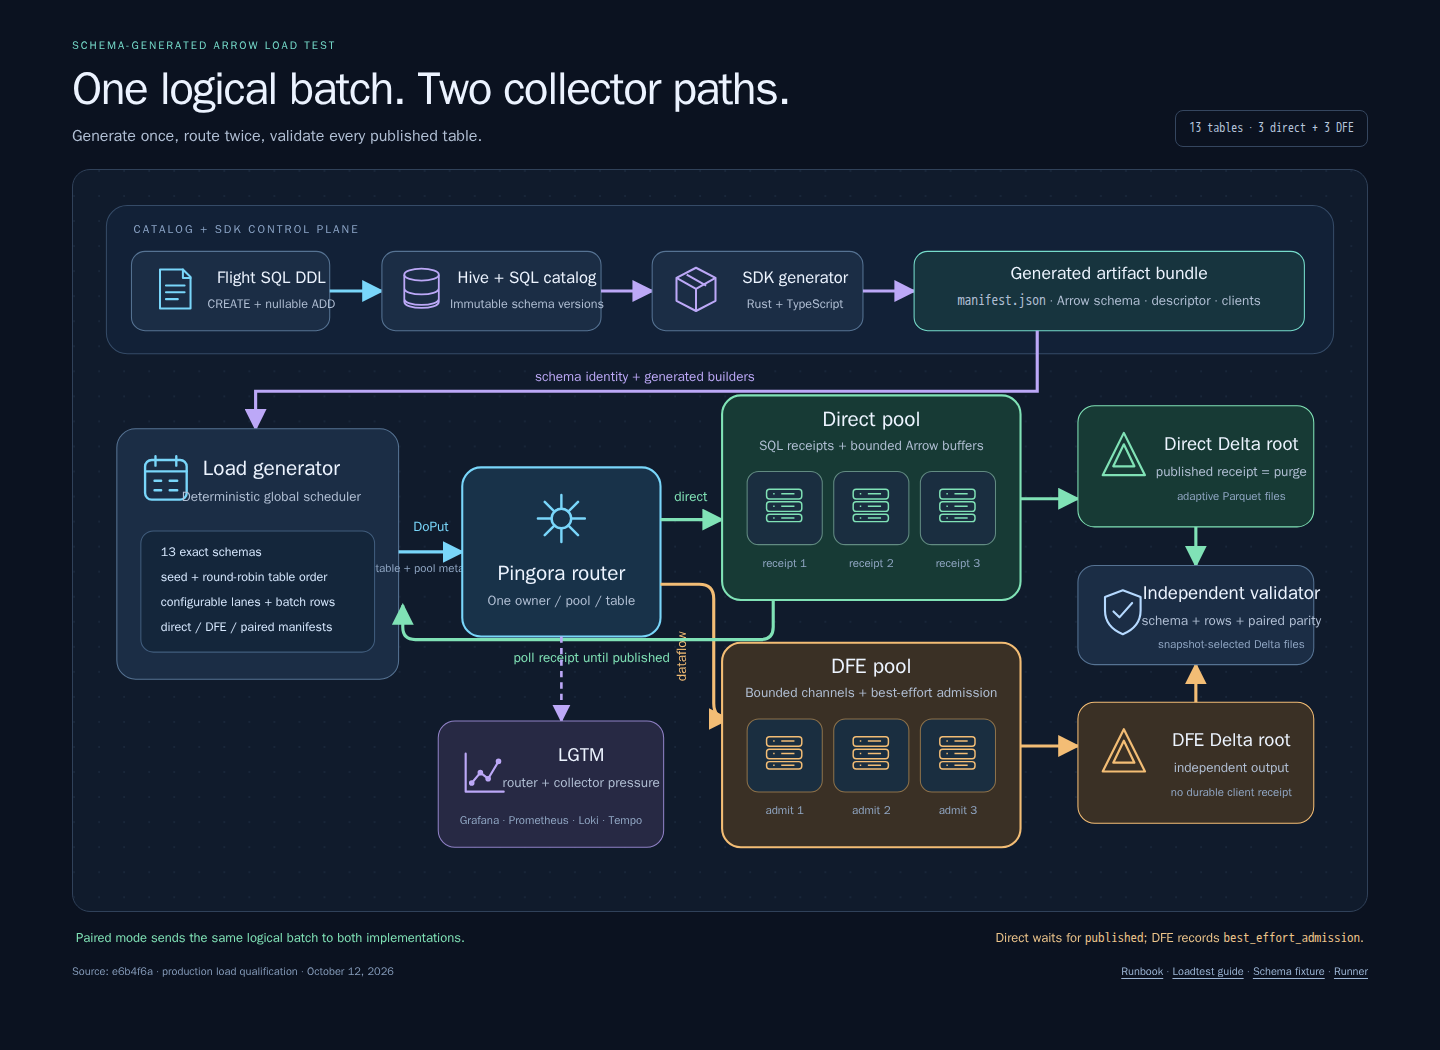
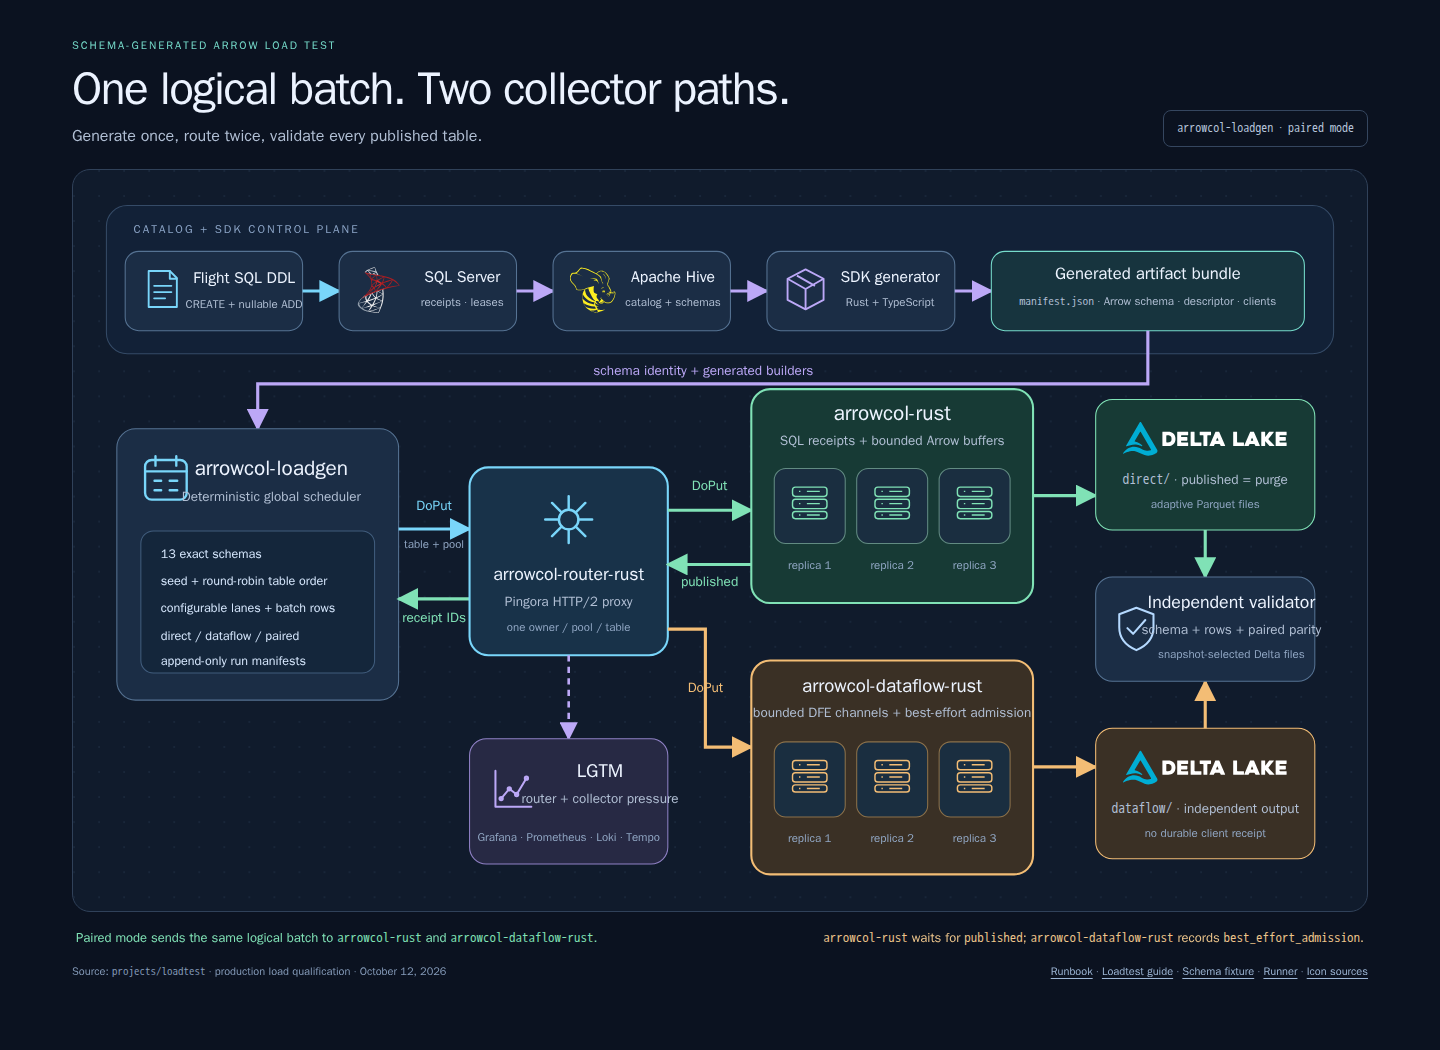
Polish the load generator architecture diagram
Separate request, response, dataflow, observability, and validation lanes; label collector groups with their project names; and use downloaded, attributed Delta Lake, SQL Server, and Apache Hive SVG assets.

Copilot-Session: 59812237-030e-4016-98f5-a9efc0479b35

diff --git a/docs/architecture/loadtest/arrow-load-generator.html b/docs/architecture/loadtest/arrow-load-generator.html
@@ -50,13 +50,13 @@
       <h1>One logical batch. Two collector paths.</h1>
       <p>Generate once, route twice, validate every published table.</p>
     </div>
-    <code class="setting">13 tables &middot; 3 direct + 3 DFE</code>
+    <code class="setting">arrowcol-loadgen &middot; paired mode</code>
   </header>
 
   <div class="canvas" tabindex="0" role="region" aria-label="Load generator architecture diagram; scroll horizontally on small screens">
     <svg xmlns="http://www.w3.org/2000/svg" viewBox="0 0 1240 710" role="img" aria-labelledby="diagram-title diagram-description">
       <title id="diagram-title">Arrow load generator architecture</title>
-      <desc id="diagram-description">Flight SQL registers thirteen schemas in the catalog. The SDK generator exports immutable descriptors and generated Rust and TypeScript SDKs. A deterministic scheduler creates record batches and sends the same logical batches through a Pingora router to three direct collectors and three Data Flow Engine collectors. Direct receipts are polled until Delta publication, while the Data Flow Engine reports best-effort admission. Independent Delta roots are compared by a validator, and platform metrics flow to LGTM.</desc>
+      <desc id="diagram-description">Flight SQL registers thirteen schemas through SQL Server and Apache Hive. The SDK generator exports immutable descriptors and generated Rust and TypeScript SDKs. Arrowcol loadgen creates record batches and sends the same logical batches through arrowcol-router-rust to three arrowcol-rust replicas and three arrowcol-dataflow-rust replicas. Arrowcol-rust receipts are polled until Delta Lake publication, while arrowcol-dataflow-rust reports best-effort admission. Independent Delta Lake roots are compared by a validator, and platform metrics flow to LGTM.</desc>
       <defs>
         <pattern id="grid" width="24" height="24" patternUnits="userSpaceOnUse">
           <circle cx="1" cy="1" r=".7" fill="#23354c"/>
@@ -77,10 +77,6 @@
           <path d="M14 9h27l9 9v37H14Z"/>
           <path d="M41 9v10h9M21 28h22M21 36h22M21 44h14"/>
         </symbol>
-        <symbol id="catalog-icon" viewBox="0 0 64 64">
-          <ellipse cx="32" cy="13" rx="23" ry="8"/>
-          <path d="M9 13v36c0 11 46 11 46 0V13M9 31c0 11 46 11 46 0M9 45c0 11 46 11 46 0"/>
-        </symbol>
         <symbol id="sdk-icon" viewBox="0 0 64 64">
           <path d="M32 7 55 19v27L32 58 9 46V19Z"/>
           <path d="M9 19l23 13 23-13M32 32v26M21 15l23 13"/>
@@ -99,10 +95,6 @@
           <rect x="8" y="44" width="48" height="10" rx="4"/>
           <path d="M17 16h2M17 33h2M17 49h2M28 16h18M28 33h18M28 49h18"/>
         </symbol>
-        <symbol id="delta-icon" viewBox="0 0 64 64">
-          <path d="M32 7 56 55H8Z"/>
-          <path d="M32 20 44 45H20Z"/>
-        </symbol>
         <symbol id="validate-icon" viewBox="0 0 64 64">
           <path d="M32 7 53 15v16c0 14-9 23-21 28C20 54 11 45 11 31V15Z"/>
           <path d="m21 32 7 7 15-17"/>
@@ -120,143 +112,151 @@
       <rect x="32" y="34" width="1176" height="142" rx="20" fill="#122137" stroke="#354b67"/>
       <text x="58" y="60" fill="#8ca5c7" font-size="11" font-weight="650" letter-spacing="2">CATALOG + SDK CONTROL PLANE</text>
 
-      <rect x="56" y="78" width="190" height="76" rx="13" fill="#1b2d45" stroke="#567393"/>
-      <use href="#ddl-icon" x="72" y="88" width="52" height="52" fill="none" stroke="#79d6fa" stroke-width="2.4" stroke-linecap="round" stroke-linejoin="round"/>
-      <text x="190" y="108" class="label" style="font-size:16px">Flight SQL DDL</text>
-      <text x="190" y="132" class="small" style="font-size:12px">CREATE + nullable ADD</text>
+      <rect x="50" y="78" width="170" height="76" rx="13" fill="#1b2d45" stroke="#567393"/>
+      <use href="#ddl-icon" x="62" y="90" width="48" height="48" fill="none" stroke="#79d6fa" stroke-width="2.4" stroke-linecap="round" stroke-linejoin="round"/>
+      <text x="164" y="108" class="label" style="font-size:15px">Flight SQL DDL</text>
+      <text x="164" y="132" class="small" style="font-size:11px">CREATE + nullable ADD</text>
 
-      <path d="M246 116H296" stroke="#79d6fa" stroke-width="3" marker-end="url(#blue)"/>
+      <path d="M220 116H255" stroke="#79d6fa" stroke-width="3" marker-end="url(#blue)"/>
 
-      <rect x="296" y="78" width="210" height="76" rx="13" fill="#1b2d45" stroke="#567393"/>
-      <use href="#catalog-icon" x="311" y="91" width="46" height="46" fill="none" stroke="#bca8f7" stroke-width="2.4"/>
-      <text x="435" y="108" class="label" style="font-size:16px">Hive + SQL catalog</text>
-      <text x="435" y="132" class="small" style="font-size:12px">Immutable schema versions</text>
+      <rect x="255" y="78" width="170" height="76" rx="13" fill="#1b2d45" stroke="#567393"/>
+      <image href="assets/microsoft-sql-server.svg" x="271" y="93" width="44" height="44" preserveAspectRatio="xMidYMid meet"/>
+      <text x="373" y="107" class="label" style="font-size:15px">SQL Server</text>
+      <text x="373" y="130" class="small" style="font-size:11px">receipts &middot; leases</text>
 
-      <path d="M506 116H555" stroke="#bca8f7" stroke-width="3" marker-end="url(#purple)"/>
+      <path d="M425 116H460" stroke="#bca8f7" stroke-width="3" marker-end="url(#purple)"/>
 
-      <rect x="555" y="78" width="202" height="76" rx="13" fill="#1b2d45" stroke="#567393"/>
-      <use href="#sdk-icon" x="571" y="88" width="52" height="52" fill="none" stroke="#bca8f7" stroke-width="2.4" stroke-linejoin="round"/>
-      <text x="692" y="108" class="label" style="font-size:16px">SDK generator</text>
-      <text x="692" y="132" class="small" style="font-size:12px">Rust + TypeScript</text>
+      <rect x="460" y="78" width="170" height="76" rx="13" fill="#1b2d45" stroke="#567393"/>
+      <image href="assets/apache-hive.svg" x="476" y="93" width="44" height="44" preserveAspectRatio="xMidYMid meet"/>
+      <text x="575" y="107" class="label" style="font-size:15px">Apache Hive</text>
+      <text x="575" y="130" class="small" style="font-size:11px">catalog + schemas</text>
 
-      <path d="M757 116H806" stroke="#bca8f7" stroke-width="3" marker-end="url(#purple)"/>
+      <path d="M630 116H665" stroke="#bca8f7" stroke-width="3" marker-end="url(#purple)"/>
 
-      <rect x="806" y="78" width="374" height="76" rx="13" fill="#17343e" stroke="#76dccb"/>
-      <text x="993" y="104" class="label" style="font-size:17px">Generated artifact bundle</text>
-      <text x="993" y="129" class="small"><tspan font-family="ui-monospace, SFMono-Regular, Consolas, monospace">manifest.json</tspan> &middot; Arrow schema &middot; descriptor &middot; clients</text>
+      <rect x="665" y="78" width="180" height="76" rx="13" fill="#1b2d45" stroke="#567393"/>
+      <use href="#sdk-icon" x="678" y="90" width="48" height="48" fill="none" stroke="#bca8f7" stroke-width="2.4" stroke-linejoin="round"/>
+      <text x="783" y="107" class="label" style="font-size:15px">SDK generator</text>
+      <text x="783" y="130" class="small" style="font-size:11px">Rust + TypeScript</text>
 
-      <path d="M924 154V212H175V248" fill="none" stroke="#bca8f7" stroke-width="3" marker-end="url(#purple)"/>
-      <text x="548" y="202" class="flow" fill="#bca8f7">schema identity + generated builders</text>
+      <path d="M845 116H880" stroke="#bca8f7" stroke-width="3" marker-end="url(#purple)"/>
+
+      <rect x="880" y="78" width="300" height="76" rx="13" fill="#17343e" stroke="#76dccb"/>
+      <text x="1030" y="104" class="label" style="font-size:16px">Generated artifact bundle</text>
+      <text x="1030" y="129" class="small" style="font-size:11px"><tspan font-family="ui-monospace, SFMono-Regular, Consolas, monospace">manifest.json</tspan> &middot; Arrow schema &middot; descriptor &middot; clients</text>
+
+      <path d="M1030 154V205H177V248" fill="none" stroke="#bca8f7" stroke-width="3" marker-end="url(#purple)"/>
+      <text x="604" y="196" class="flow" fill="#bca8f7">schema identity + generated builders</text>
 
       <!-- Deterministic scheduler. -->
-      <rect x="42" y="248" width="270" height="240" rx="18" fill="#1b2d45" stroke="#567393"/>
+      <rect x="42" y="248" width="270" height="260" rx="18" fill="#1b2d45" stroke="#567393"/>
       <use href="#schedule-icon" x="60" y="267" width="58" height="58" fill="none" stroke="#79d6fa" stroke-width="2.5" stroke-linecap="round"/>
-      <text x="190" y="292" class="label">Load generator</text>
+      <text x="190" y="292" class="label">arrowcol-loadgen</text>
       <text x="190" y="317" class="small">Deterministic global scheduler</text>
-      <rect x="65" y="346" width="224" height="116" rx="12" fill="#14263b" stroke="#415d7d"/>
-      <text x="84" y="370" class="lane">13 exact schemas</text>
-      <text x="84" y="394" class="lane">seed + round-robin table order</text>
-      <text x="84" y="418" class="lane">configurable lanes + batch rows</text>
-      <text x="84" y="442" class="lane">direct / DFE / paired manifests</text>
+      <rect x="65" y="346" width="224" height="136" rx="12" fill="#14263b" stroke="#415d7d"/>
+      <text x="84" y="372" class="lane">13 exact schemas</text>
+      <text x="84" y="398" class="lane">seed + round-robin table order</text>
+      <text x="84" y="424" class="lane">configurable lanes + batch rows</text>
+      <text x="84" y="450" class="lane">direct / dataflow / paired</text>
+      <text x="84" y="474" class="lane">append-only run manifests</text>
 
       <!-- Router. -->
-      <path d="M312 366H373" stroke="#79d6fa" stroke-width="3" marker-end="url(#blue)"/>
-      <text x="343" y="346" class="flow" fill="#79d6fa">DoPut</text>
-      <text x="343" y="385" class="tiny">table + pool metadata</text>
+      <path d="M312 344H380" stroke="#79d6fa" stroke-width="3" marker-end="url(#blue)"/>
+      <text x="346" y="326" class="flow" fill="#79d6fa">DoPut</text>
+      <text x="346" y="362" class="tiny">table + pool</text>
+      <path d="M380 411H312" stroke="#80e2b6" stroke-width="3" marker-end="url(#green)"/>
+      <text x="346" y="433" class="flow" fill="#80e2b6">receipt IDs</text>
 
-      <rect x="373" y="285" width="190" height="162" rx="18" fill="#183249" stroke="#79d6fa" stroke-width="2"/>
-      <use href="#router-icon" x="438" y="304" width="60" height="60" fill="none" stroke="#79d6fa" stroke-width="2.5" stroke-linecap="round"/>
-      <text x="468" y="393" class="label">Pingora router</text>
-      <text x="468" y="417" class="small">One owner / pool / table</text>
+      <rect x="380" y="285" width="190" height="180" rx="18" fill="#183249" stroke="#79d6fa" stroke-width="2"/>
+      <use href="#router-icon" x="445" y="305" width="60" height="60" fill="none" stroke="#79d6fa" stroke-width="2.5" stroke-linecap="round"/>
+      <text x="475" y="393" class="label" style="font-size:17px">arrowcol-router-rust</text>
+      <text x="475" y="418" class="small">Pingora HTTP/2 proxy</text>
+      <text x="475" y="442" class="tiny">one owner / pool / table</text>
 
-      <!-- Direct pool. -->
-      <path d="M563 335H622" stroke="#80e2b6" stroke-width="3" marker-end="url(#green)"/>
-      <text x="592" y="317" class="flow" fill="#80e2b6">direct</text>
-      <rect x="622" y="216" width="286" height="196" rx="18" fill="#173a35" stroke="#80e2b6" stroke-width="2"/>
-      <text x="765" y="245" class="label">Direct pool</text>
-      <text x="765" y="268" class="small">SQL receipts + bounded Arrow buffers</text>
+      <!-- arrowcol-rust. -->
+      <path d="M570 326H650" stroke="#80e2b6" stroke-width="3" marker-end="url(#green)"/>
+      <text x="610" y="307" class="flow" fill="#80e2b6">DoPut</text>
+      <path d="M650 378H570" stroke="#80e2b6" stroke-width="3" marker-end="url(#green)"/>
+      <text x="610" y="399" class="flow" fill="#80e2b6">published</text>
+      <rect x="650" y="210" width="270" height="205" rx="18" fill="#173a35" stroke="#80e2b6" stroke-width="2"/>
+      <text x="785" y="240" class="label">arrowcol-rust</text>
+      <text x="785" y="264" class="small">SQL receipts + bounded Arrow buffers</text>
       <g fill="#1a2e40" stroke="#628b82">
-        <rect x="646" y="289" width="72" height="70" rx="11"/>
-        <rect x="729" y="289" width="72" height="70" rx="11"/>
-        <rect x="812" y="289" width="72" height="70" rx="11"/>
+        <rect x="672" y="286" width="68" height="72" rx="11"/>
+        <rect x="751" y="286" width="68" height="72" rx="11"/>
+        <rect x="830" y="286" width="68" height="72" rx="11"/>
       </g>
       <g fill="none" stroke="#80e2b6" stroke-width="2">
-        <use href="#collector-icon" x="659" y="299" width="45" height="45"/>
-        <use href="#collector-icon" x="742" y="299" width="45" height="45"/>
-        <use href="#collector-icon" x="825" y="299" width="45" height="45"/>
+        <use href="#collector-icon" x="684" y="297" width="44" height="44"/>
+        <use href="#collector-icon" x="763" y="297" width="44" height="44"/>
+        <use href="#collector-icon" x="842" y="297" width="44" height="44"/>
       </g>
-      <text x="682" y="380" class="tiny">receipt 1</text>
-      <text x="765" y="380" class="tiny">receipt 2</text>
-      <text x="848" y="380" class="tiny">receipt 3</text>
+      <text x="706" y="382" class="tiny">replica 1</text>
+      <text x="785" y="382" class="tiny">replica 2</text>
+      <text x="864" y="382" class="tiny">replica 3</text>
 
-      <!-- DFE pool. -->
-      <path d="M563 397H600Q614 397 614 411V511Q614 526 628 526" fill="none" stroke="#f3bd75" stroke-width="3" marker-end="url(#orange)"/>
-      <text x="587" y="466" class="flow" fill="#f3bd75" transform="rotate(-90 587 466)">dataflow</text>
-      <rect x="622" y="453" width="286" height="196" rx="18" fill="#3a3025" stroke="#f3bd75" stroke-width="2"/>
-      <text x="765" y="482" class="label">DFE pool</text>
-      <text x="765" y="505" class="small">Bounded channels + best-effort admission</text>
+      <!-- arrowcol-dataflow-rust. -->
+      <path d="M570 440H606V553H650" fill="none" stroke="#f3bd75" stroke-width="3" marker-end="url(#orange)"/>
+      <text x="606" y="500" class="flow" fill="#f3bd75">DoPut</text>
+      <rect x="650" y="470" width="270" height="205" rx="18" fill="#3a3025" stroke="#f3bd75" stroke-width="2"/>
+      <text x="785" y="500" class="label" style="font-size:18px">arrowcol-dataflow-rust</text>
+      <text x="785" y="524" class="small">bounded DFE channels + best-effort admission</text>
       <g fill="#1a2e40" stroke="#8c714a">
-        <rect x="646" y="526" width="72" height="70" rx="11"/>
-        <rect x="729" y="526" width="72" height="70" rx="11"/>
-        <rect x="812" y="526" width="72" height="70" rx="11"/>
+        <rect x="672" y="548" width="68" height="72" rx="11"/>
+        <rect x="751" y="548" width="68" height="72" rx="11"/>
+        <rect x="830" y="548" width="68" height="72" rx="11"/>
       </g>
       <g fill="none" stroke="#f3bd75" stroke-width="2">
-        <use href="#collector-icon" x="659" y="536" width="45" height="45"/>
-        <use href="#collector-icon" x="742" y="536" width="45" height="45"/>
-        <use href="#collector-icon" x="825" y="536" width="45" height="45"/>
+        <use href="#collector-icon" x="684" y="559" width="44" height="44"/>
+        <use href="#collector-icon" x="763" y="559" width="44" height="44"/>
+        <use href="#collector-icon" x="842" y="559" width="44" height="44"/>
       </g>
-      <text x="682" y="617" class="tiny">admit 1</text>
-      <text x="765" y="617" class="tiny">admit 2</text>
-      <text x="848" y="617" class="tiny">admit 3</text>
-
-      <!-- Direct receipt result back to the generator. -->
-      <path d="M671 412V438Q671 450 659 450H328Q316 450 316 438V417" fill="none" stroke="#80e2b6" stroke-width="3" marker-end="url(#green)"/>
-      <text x="497" y="471" class="flow" fill="#80e2b6">poll receipt until published</text>
+      <text x="706" y="644" class="tiny">replica 1</text>
+      <text x="785" y="644" class="tiny">replica 2</text>
+      <text x="864" y="644" class="tiny">replica 3</text>
 
       <!-- Delta roots and validator. -->
-      <path d="M908 315H963" stroke="#80e2b6" stroke-width="3" marker-end="url(#green)"/>
-      <rect x="963" y="226" width="226" height="116" rx="16" fill="#173a35" stroke="#80e2b6"/>
-      <use href="#delta-icon" x="980" y="246" width="54" height="54" fill="none" stroke="#80e2b6" stroke-width="2.5" stroke-linejoin="round"/>
-      <text x="1110" y="268" class="label" style="font-size:18px">Direct Delta root</text>
-      <text x="1110" y="293" class="small">published receipt = purge</text>
-      <text x="1110" y="316" class="tiny">adaptive Parquet files</text>
+      <path d="M920 312H980" stroke="#80e2b6" stroke-width="3" marker-end="url(#green)"/>
+      <rect x="980" y="220" width="210" height="125" rx="16" fill="#173a35" stroke="#80e2b6"/>
+      <image href="assets/delta-lake.svg" x="1006" y="241" width="158" height="34" preserveAspectRatio="xMidYMid meet"/>
+      <text x="1085" y="301" class="small"><tspan font-family="ui-monospace, SFMono-Regular, Consolas, monospace">direct/</tspan> &middot; published = purge</text>
+      <text x="1085" y="324" class="tiny">adaptive Parquet files</text>
 
-      <path d="M908 552H963" stroke="#f3bd75" stroke-width="3" marker-end="url(#orange)"/>
-      <rect x="963" y="510" width="226" height="116" rx="16" fill="#3a3025" stroke="#f3bd75"/>
-      <use href="#delta-icon" x="980" y="530" width="54" height="54" fill="none" stroke="#f3bd75" stroke-width="2.5" stroke-linejoin="round"/>
-      <text x="1110" y="552" class="label" style="font-size:18px">DFE Delta root</text>
-      <text x="1110" y="577" class="small">independent output</text>
-      <text x="1110" y="600" class="tiny">no durable client receipt</text>
+      <path d="M920 572H980" stroke="#f3bd75" stroke-width="3" marker-end="url(#orange)"/>
+      <rect x="980" y="535" width="210" height="125" rx="16" fill="#3a3025" stroke="#f3bd75"/>
+      <image href="assets/delta-lake.svg" x="1006" y="556" width="158" height="34" preserveAspectRatio="xMidYMid meet"/>
+      <text x="1085" y="616" class="small"><tspan font-family="ui-monospace, SFMono-Regular, Consolas, monospace">dataflow/</tspan> &middot; independent output</text>
+      <text x="1085" y="639" class="tiny">no durable client receipt</text>
 
-      <path d="M1076 342V379" stroke="#80e2b6" stroke-width="3" marker-end="url(#green)"/>
-      <path d="M1076 510V474" stroke="#f3bd75" stroke-width="3" marker-end="url(#orange)"/>
-      <rect x="963" y="379" width="226" height="95" rx="16" fill="#1b2d45" stroke="#567393"/>
-      <use href="#validate-icon" x="980" y="397" width="52" height="52" fill="none" stroke="#b5d9ff" stroke-width="2.5" stroke-linecap="round" stroke-linejoin="round"/>
-      <text x="1110" y="411" class="label" style="font-size:18px">Independent validator</text>
-      <text x="1110" y="436" class="small">schema + rows + paired parity</text>
-      <text x="1110" y="458" class="tiny">snapshot-selected Delta files</text>
+      <path d="M1085 345V390" stroke="#80e2b6" stroke-width="3" marker-end="url(#green)"/>
+      <path d="M1085 535V490" stroke="#f3bd75" stroke-width="3" marker-end="url(#orange)"/>
+      <rect x="980" y="390" width="210" height="100" rx="16" fill="#1b2d45" stroke="#567393"/>
+      <use href="#validate-icon" x="994" y="414" width="50" height="50" fill="none" stroke="#b5d9ff" stroke-width="2.5" stroke-linecap="round" stroke-linejoin="round"/>
+      <text x="1110" y="420" class="label" style="font-size:17px">Independent validator</text>
+      <text x="1110" y="445" class="small">schema + rows + paired parity</text>
+      <text x="1110" y="468" class="tiny">snapshot-selected Delta files</text>
 
       <!-- LGTM receives observability, not payload ownership. -->
-      <path d="M468 447V528" stroke="#bca8f7" stroke-width="2.5" stroke-dasharray="6 5" marker-end="url(#purple)"/>
-      <rect x="350" y="528" width="216" height="121" rx="16" fill="#272944" stroke="#8f81c5"/>
-      <use href="#chart-icon" x="368" y="551" width="53" height="53" fill="none" stroke="#bca8f7" stroke-width="2.5" stroke-linecap="round" stroke-linejoin="round"/>
-      <text x="487" y="566" class="label" style="font-size:18px">LGTM</text>
-      <text x="487" y="591" class="small">router + collector pressure</text>
-      <text x="458" y="627" class="tiny">Grafana &middot; Prometheus &middot; Loki &middot; Tempo</text>
+      <path d="M475 465V545" stroke="#bca8f7" stroke-width="2.5" stroke-dasharray="6 5" marker-end="url(#purple)"/>
+      <rect x="380" y="545" width="190" height="120" rx="16" fill="#272944" stroke="#8f81c5"/>
+      <use href="#chart-icon" x="397" y="568" width="50" height="50" fill="none" stroke="#bca8f7" stroke-width="2.5" stroke-linecap="round" stroke-linejoin="round"/>
+      <text x="505" y="582" class="label" style="font-size:18px">LGTM</text>
+      <text x="505" y="607" class="small">router + collector pressure</text>
+      <text x="475" y="643" class="tiny">Grafana &middot; Prometheus &middot; Loki &middot; Tempo</text>
     </svg>
   </div>
 
   <div class="note">
-    <strong>Paired mode sends the same logical batch to both implementations.</strong>
-    <span class="warning">Direct waits for <code>published</code>; DFE records <code>best_effort_admission</code>.</span>
+    <strong>Paired mode sends the same logical batch to <code>arrowcol-rust</code> and <code>arrowcol-dataflow-rust</code>.</strong>
+    <span class="warning"><code>arrowcol-rust</code> waits for <code>published</code>; <code>arrowcol-dataflow-rust</code> records <code>best_effort_admission</code>.</span>
   </div>
   <footer>
-    <span>Source: e6b4f6a &middot; production load qualification &middot; October 12, 2026</span>
+    <span>Source: <code>projects/loadtest</code> &middot; production load qualification &middot; October 12, 2026</span>
     <span>
       <a href="README.md">Runbook</a>
       &middot; <a href="../../../projects/loadtest/README.md">Loadtest guide</a>
       &middot; <a href="../../../projects/loadtest/schemas/sqlserver.sql">Schema fixture</a>
       &middot; <a href="../../../projects/loadtest/loadgen/src/runner.rs">Runner</a>
+      &middot; <a href="assets/README.md">Icon sources</a>
     </span>
   </footer>
 </main>

diff --git a/docs/architecture/loadtest/assets/README.md b/docs/architecture/loadtest/assets/README.md
@@ -1,0 +1,20 @@
+# Diagram icon sources
+
+These downloaded SVGs are stored locally so the architecture diagram renders
+offline and does not hot-link third-party assets.
+
+| File | Source | License |
+| --- | --- | --- |
+| `delta-lake.svg` | Delta Lake website repository, `src/components/assets/delta-lake-logo.svg` | Apache-2.0 |
+| `microsoft-sql-server.svg` | Devicon, `icons/microsoftsqlserver/microsoftsqlserver-original.svg` | MIT |
+| `apache-hive.svg` | Simple Icons, `icons/apachehive.svg`; local fill set to the Hive yellow | CC0-1.0 |
+
+The icons are used only to identify their respective products in a technical
+architecture diagram. Delta Lake, Microsoft SQL Server, and Apache Hive names
+and marks remain the property of their respective owners.
+
+Source repositories:
+
+- <https://github.com/delta-io/website>
+- <https://github.com/devicons/devicon>
+- <https://github.com/simple-icons/simple-icons>
